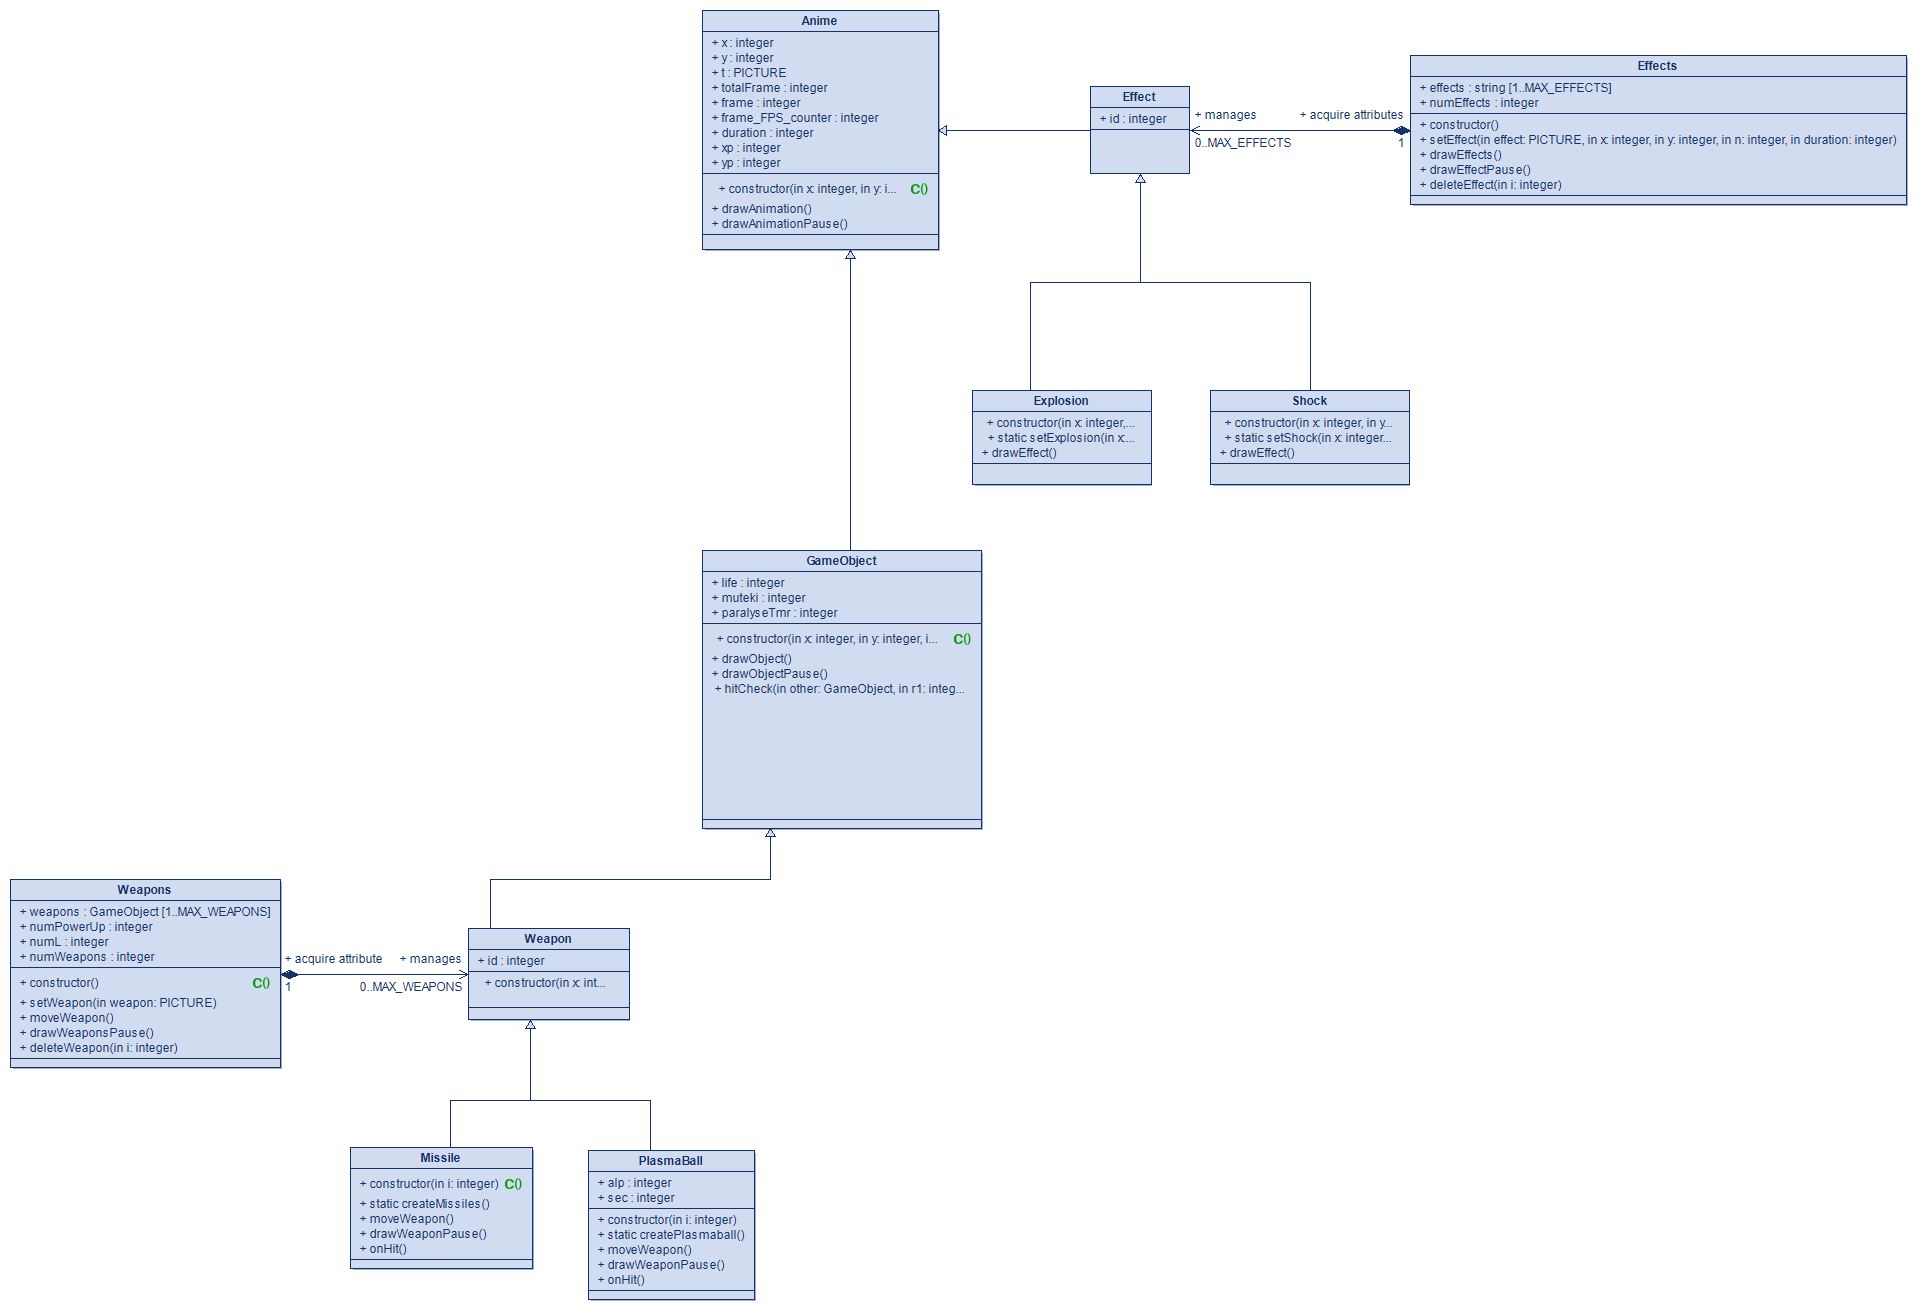
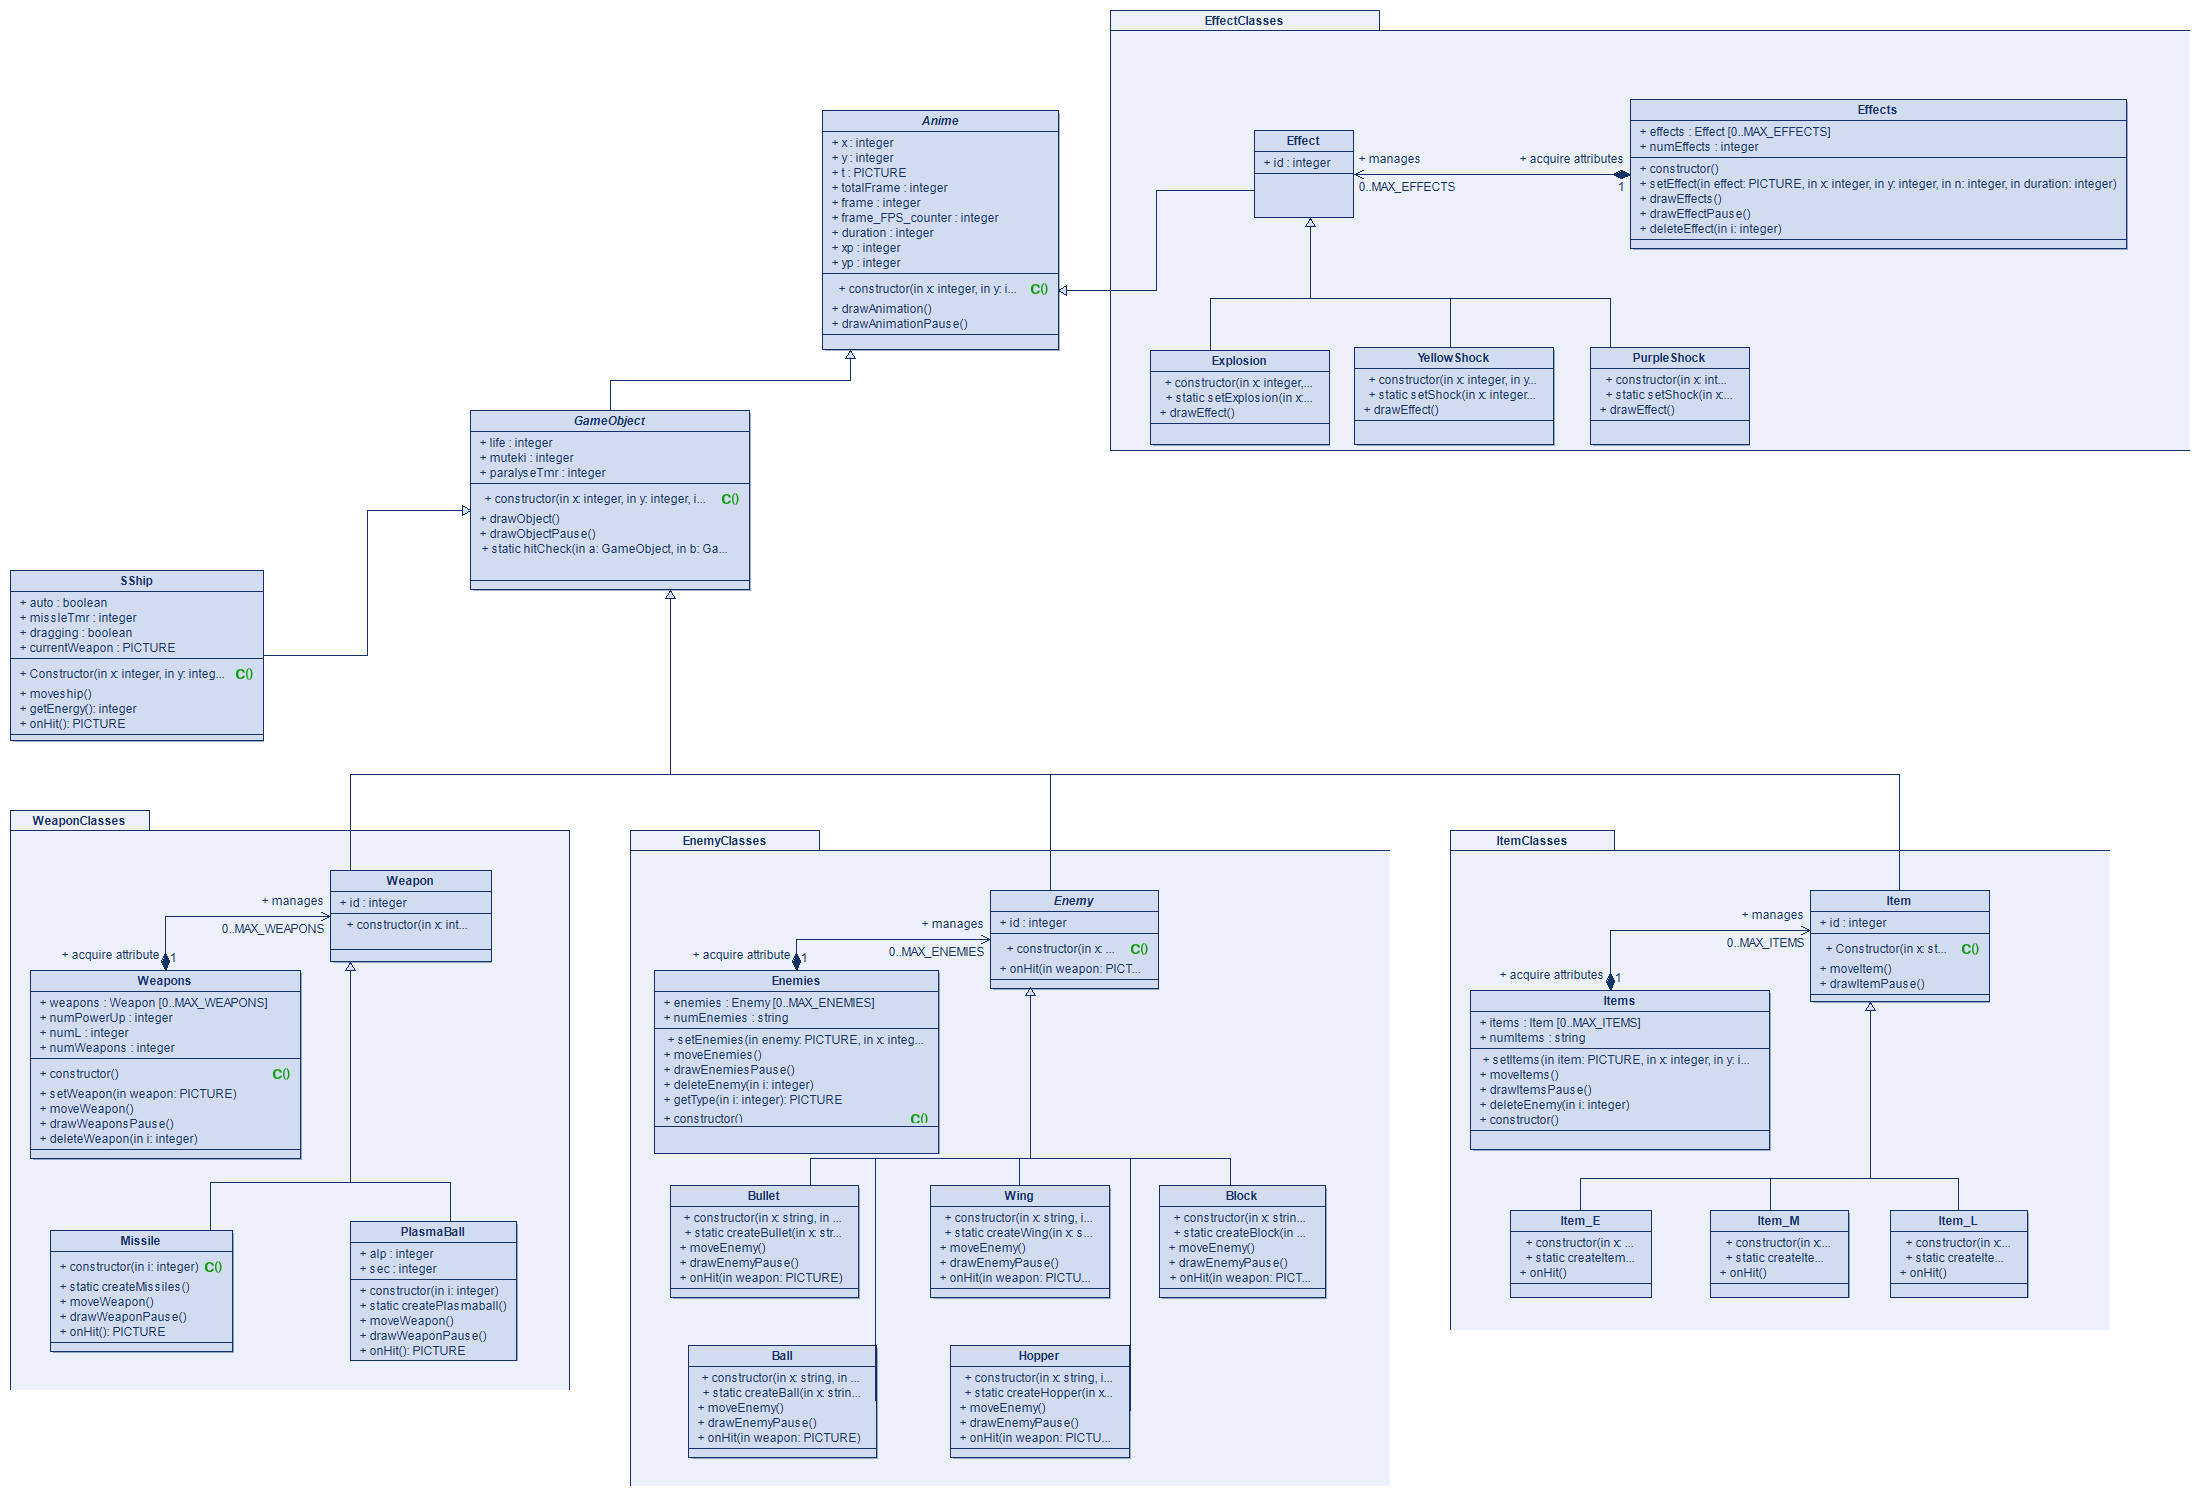
Complete building the system data structure of the main game 2024/11/22 22:55pm

diff --git a/stg.js b/stg.js
@@ -147,7 +147,6 @@ function mainloop(){
             gameUI(); 
             moveObjects();
             moveSShip();
-            moveMissile();
             setEnemies();
             setItems();
             hitCheck();
@@ -267,9 +266,9 @@ class GameObject extends Anime{
 }
 
 //自機の管理
-class SShip {
+class SShip extends GameObject{
     constructor(x, y){
-        this.ship = new GameObject(x,y,0,0,PICTURES.SHIP,MAX_SHIP_ENERGY,SELF_RADIUS);
+        super(x,y,0,0,PICTURES.SHIP,MAX_SHIP_ENERGY,SELF_RADIUS);
         //this.energy = 10;
         this.auto = false;
         this.missileTmr = 0;
@@ -279,19 +278,19 @@ class SShip {
 
     moveSShip(){
         //Ship movement
-        this.ship.x += int(((key[CONTROL.get("RIGHT")] && 1) - (key[CONTROL.get("LEFT")] && 1)) * 20 * 30/FPS);
-        if (this.ship.x >= 1000) this.ship.x = 999; 
-        if (this.ship.x <= 60) this.ship.x = 61;
-        this.ship.y += int(((key[CONTROL.get("DOWN")] && 1) - (key[CONTROL.get("UP")] && 1)) * 20 * 30/FPS); 
-        if (this.ship.y >= 680) this.ship.y = 679; 
-        if (this.ship.y <= 40) this.ship.y = 41;
+        this.x += int(((key[CONTROL.get("RIGHT")] && 1) - (key[CONTROL.get("LEFT")] && 1)) * 20 * 30/FPS);
+        if (this.x >= 1000) this.x = 999; 
+        if (this.x <= 60) this.x = 61;
+        this.y += int(((key[CONTROL.get("DOWN")] && 1) - (key[CONTROL.get("UP")] && 1)) * 20 * 30/FPS); 
+        if (this.y >= 680) this.y = 679; 
+        if (this.y <= 40) this.y = 41;
         
         //Touch/Mouse
         this.dragging = false;
         if (tapC > 0){     
             this.dragging = true;      
-            this.ship.x += int((tapX-this.ship.x)/6);
-            this.ship.y += int((tapY-this.ship.y)/6);            
+            this.x += int((tapX-this.x)/6);
+            this.y += int((tapY-this.y)/6);            
         }
         
         //missile movement
@@ -308,18 +307,18 @@ class SShip {
             key[CONTROL.get("FIRE")] = 2;      
         }
     
-        if (this.ship.muteki % 2 == 0) this.ship.drawObject();
-        if (this.ship.muteki > 0) this.ship.muteki--;
+        if (this.muteki % 2 == 0) this.drawObject();
+        if (this.muteki > 0) this.muteki--;
     }
 
     getEnergy(){
-        return this.ship.life;
+        return this.life;
     }
 
     onHit(){
-        sShip.ship.life--;
-        sShip.ship.muteki = IFRAME;    
-        return this.ship.t;
+        sShip.life--;
+        sShip.muteki = IFRAME;    
+        return this.t;
     }
 }
 
@@ -684,7 +683,7 @@ class Enemies{
     }
 }
 
-class Enemy extends GameObject{//*****TODO*****
+class Enemy extends GameObject{
     constructor(x,y,xp,yp,t,life){
         super(x,y,xp,yp,t,life);
         if (this.moveEnemy == undefined){
@@ -904,10 +903,6 @@ class Items {
             if (this.items[i]) this.items[i].drawItemPause();
         }
     }
-
-    getType(i){
-        return this.items[i].t;
-    }
     
     deleteItems(i){
         if (this.items[i]){
@@ -943,7 +938,7 @@ class Item_E extends Item{
     }
 
     onHit(){
-        if (sShip.getEnergy() < MAX_SHIP_ENERGY) sShip.ship.life++;
+        if (sShip.getEnergy() < MAX_SHIP_ENERGY) sShip.life++;
     }
 }
 
@@ -977,6 +972,7 @@ class Item_L extends Item{
     }
 }
 
+//Main game methods
 var weapons = new Weapons();
 var enemies = new Enemies(); 
 var effects = new Effects();
@@ -1044,7 +1040,6 @@ function setItems(){
         }
         itemProbability.keys().forEach((v) => spawnItem(v));
     }
-
 }
 
 function setWeapon(t){
@@ -1055,10 +1050,7 @@ function setWeapon(t){
 function moveObjects(){
     enemies.moveEnemies();
     items.moveItems();
-}
-
-function moveMissile(){
-     weapons.moveWeapon();
+    weapons.moveWeapon();
 }
 
 function initSShip(){
@@ -1074,14 +1066,14 @@ function getEnergy(){
 }
 
 function getShipLocation(){
-    return [sShip.ship.x, sShip.ship.y];
+    return [sShip.x, sShip.y];
 }
 
 function hitCheck(){
     for (var i = 0; i < MAX_ENEMIES; i++){
         if (!(enemies.enemies[i])) continue;
         //Enemies x SShip
-        if (sShip.ship.muteki == 0 && GameObject.hitCheck(sShip.ship, enemies.enemies[i])){
+        if (sShip.muteki == 0 && GameObject.hitCheck(sShip, enemies.enemies[i])){
             enemies.enemies[i].onHit(sShip.onHit());
         }
         if (!(enemies.enemies[i])) continue;
@@ -1098,9 +1090,7 @@ function hitCheck(){
     //Ship x items
     for (var i = 0; i < MAX_ITEMS; i++){
         if (!items.items[i]) continue;
-        var t = items.getType(i);
-        var r = (img[t].width + img[t].height)/4;
-        if (GameObject.hitCheck(sShip.ship, items.items[i])){
+        if (GameObject.hitCheck(sShip, items.items[i])){
             items.items[i].onHit();
             items.deleteItems(i);
         }
@@ -1238,6 +1228,7 @@ function isMouseInABox(x, y, dx, dy){
 
 //*****USER MENUS*****
 
+//method to scroll menu items
 function scrollMenu(totalMenuItems){
     if (key[CONTROL.get("UP")] == 1) {
         menu--;
@@ -1358,7 +1349,7 @@ class BoxButton {
     }
 }
 
-//Title Screen / Main menu
+//---Title Screen / Main menu---
 
 const SELECTED = true;
 //Buttons
@@ -1415,11 +1406,7 @@ function mainMenu(){
     
 }
 
-
-
-
-//Setting Menu
-
+//---Setting Menu---
 
 //fps drag bar
 var fpsBar = new SlidingBar(312, 240, 576, 40, 30, 144, 1, FPS);
@@ -1530,11 +1517,7 @@ function settingMenu(){
     
 }
 
-
-
-
-//Controls menu
-
+//---Controls menu---
 
 //Back Button
 const controlsBackButtonFunction = function(){
@@ -1548,44 +1531,36 @@ const controlsBackButtonFunction = function(){
 var controlsBackButton = new BoxButton(475, 625, 250, 50, 40, "BACK[ESC]","cyan","purple",70, controlsBackButtonFunction);
 
 //Up key
-
 var upButton = new BoxButton(100,100,200,50,40,"UP","cyan","purple",70);
 
 var modifyUpButton = new BoxButton(350,100,250,50,40,"ArrowUp","white","purple",70);
 
 //down key
-
 var downButton = new BoxButton(100,230,200,50,40,"DOWN","cyan","purple",70);
 
 var modifyDownButton = new BoxButton(350,230,250,50,40,"ArrowDown","white","purple",70);
 
 //left key
-
-
 var leftButton = new BoxButton(100,360,200,50,40,"LEFT","cyan","purple",70);
 
 var modifyLeftButton = new BoxButton(350,360,250,50,40,"ArrowLeft","white","purple",70);
 
 //right key
-
 var rightButton = new BoxButton(100,490,200,50,40,"RIGHT","cyan","purple",70);
 
 var modifyRightButton = new BoxButton(350,490,250,50,40,"ArrowRight","white","purple",70);
 
 //fire key
-
 var fireButton = new BoxButton(600,100,200,50,40,"FIRE","cyan","purple",70);
 
 var modifyFireButton = new BoxButton(850,100,250,50,40,"[Space]","white","purple",70);
 
 //auto key
-
 var autoButton = new BoxButton(600,230,200,50,40,"AUTO","cyan","purple",70);
 
 var modifyAutoButton = new BoxButton(850,230,250,50,40,"a","white","purple",70);
 
 //select key
-
 var selectButton = new BoxButton(600,360,200,50,40,"SELECT","cyan","purple",70);
 
 var modifySelectButton = new BoxButton(850,360,250,50,40,"Enter","white","purple",70);
@@ -1744,7 +1719,7 @@ function controlsMenu(){
 
 }
 
-//Pause Menu
+//---Pause Menu---
 const quitButtonFunction = function(){
     key[CONTROL.get("SELECT")] = 2;
     key[CONTROL.get("FIRE")] = 2;
@@ -1781,7 +1756,7 @@ function pauseMenu(){
         return;
     }
 
-    sShip.ship.drawObjectPause();
+    sShip.drawObjectPause();
     enemies.drawEnemiesPause();
     weapons.drawWeaponsPause();
     items.drawItemsPause();
@@ -1824,7 +1799,6 @@ function gameoverMenu(){
     if (tmr > FPS*5) {scene = SCENE.TITLE; stage = -999}
     else if (tmr % int(FPS*1/6) == 1) effects.setEffect(PICTURES.EXPLOSION, x + rnd(120) - 60, y + rnd(120) - 60, 0, picturesFrame.get(PICTURES.EXPLOSION));
     moveObjects();
-    moveMissile();
     drawEffects();
     fText("GAME OVER", 600, 300, 50, "red");
 }
